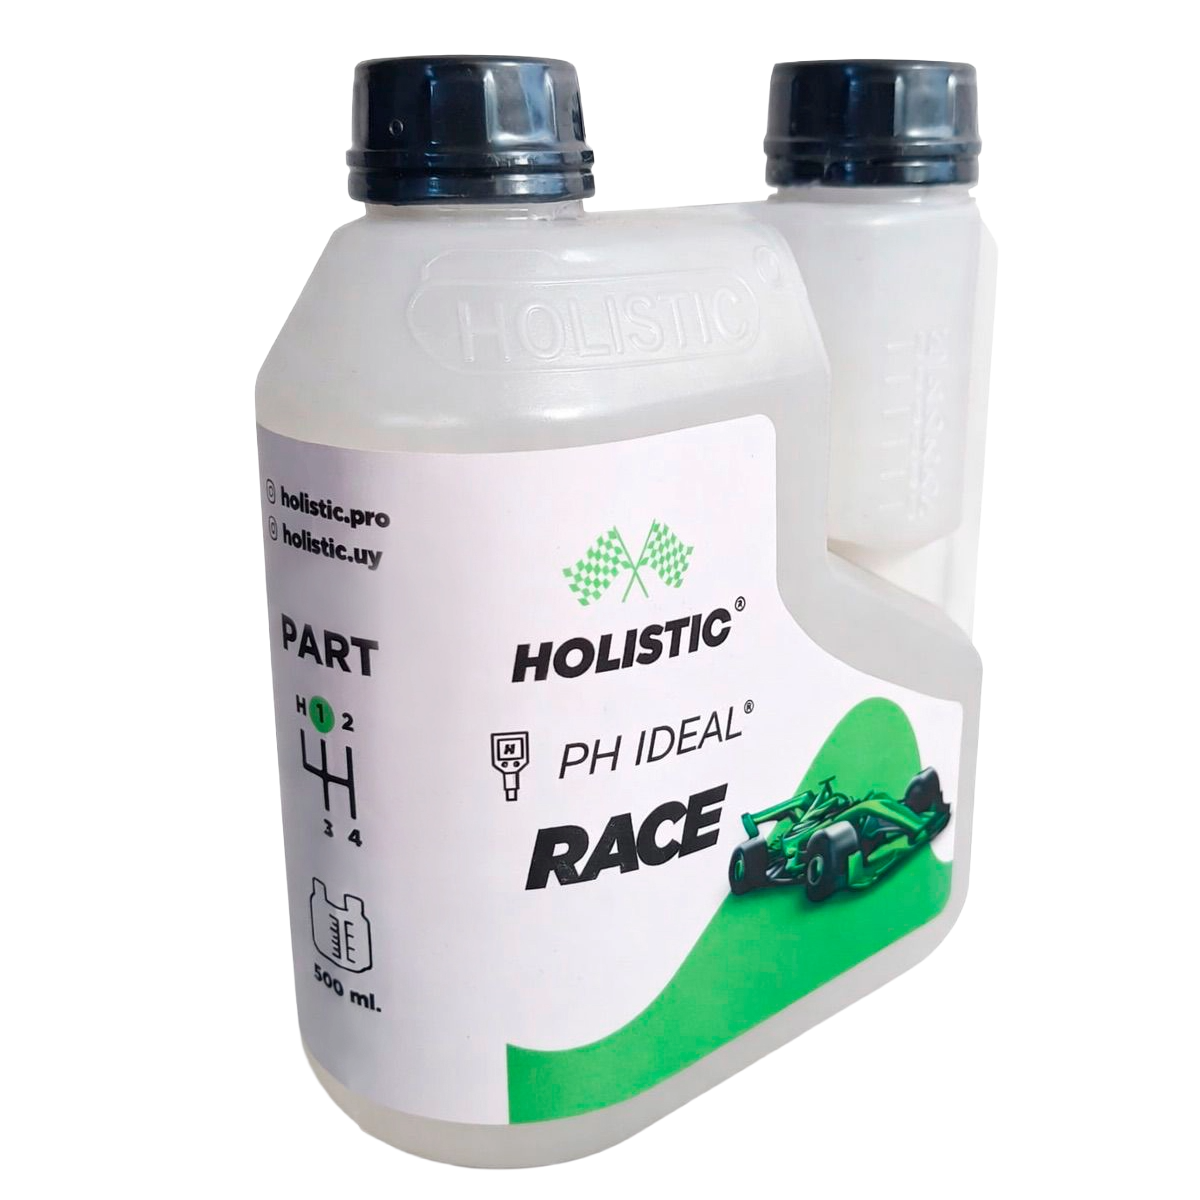
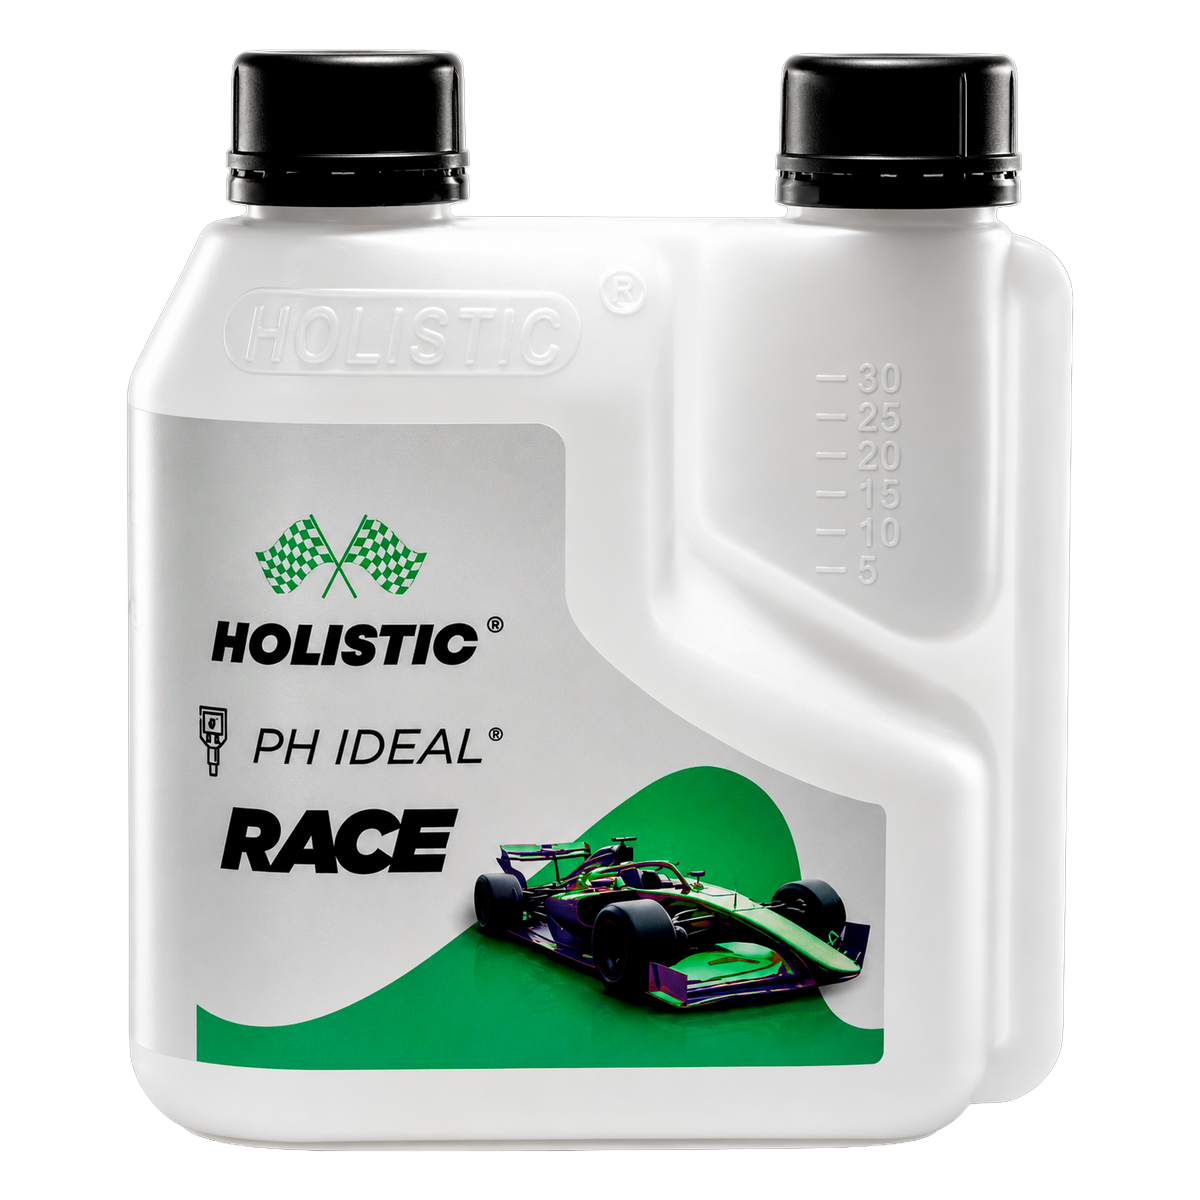
landing: re-esquema interna RACE — colores, copy y potes (4→5 fórmulas)
Colores por race re-mapeados a pedido del cliente (swap dentro de la paleta):
- Race 1 NPK → verde #3DA86E (igual)
- Race 2 Calcio+Nitrógeno → CELESTE #3FB5CB (era #8E24AA)
- Race 3 1ª y 2ª parte → VIOLETA #8E24AA (eran rosa/violeta mezclados)
- Race 4 Micro+Magnesio → ROSA #EC407A (era celeste #3FB5CB)

Potes: nuevos renders 500ml del zip RENDERS, normalizados a 1200x1200
(crop a bbox + alto 92% centrado) para encuadre consistente:
verde / celeste / violeta PART A / violeta PART B / rosa. Removidas las
imágenes viejas con colores que ya no aplican.

Copy:
- Race 1: explicación N/P/K (acortada).
- Race 2: paredes celulares, raíces/brotes, resistencia a plagas y sequías.
- Race 4: microelementos (Fe/Zn/B/Mn/Cu/Mo) + magnesio (clorofila).
- Race 3 (1ª/2ª) copy PK existente.

Estructura "4 → 5 fertilizantes": bigStat num 4→5, claim "Cuatro→Cinco
fórmulas", techSpecs, formats array splitea RACE 3 en 1ª/2ª (5 entries).
RaceFormatsShowcase: título "Cuatro→Cinco fórmulas" + leyenda de colores
(Race 1 verde · 2 celeste · 3 violeta 1y2 · 4 rosa). total deriva de
formats.length → HUD pasa a /05 solo.

Features: "pH neutro" → "pH ideal"; estabilidad "mezclables sin precipitar
en el orden indicado".

Build landing verde. PENDIENTE QA visual: posible solapamiento de textos
(tabs ahora son 5) — no pude renderizar el landing acá.

diff --git a/landing/src/data/productDetails.js b/landing/src/data/productDetails.js
@@ -211,7 +211,7 @@ export const productDetails = {
         hero: {
             kicker: "LÍNEA RACE",
             headline: "Sistema completo de fertilizantes\npara cultivo indoor y outdoor.",
-            claim: "Línea Race es el sistema de fertilizantes de Holistic para cultivadores que priorizan velocidad y rendimiento. Cuatro fórmulas para todo el ciclo indoor y outdoor: Race 1 (NPK que se usa durante todo el ciclo), Race 2 (Calcio + Nitrógeno), Race 3 (PK de crecimiento y maduración en dos partes) y Race 4 (Micro + Magnesio).",
+            claim: "Línea Race es el sistema de fertilizantes de Holistic para cultivadores que priorizan velocidad y rendimiento. Cinco fórmulas para todo el ciclo indoor y outdoor: Race 1 (NPK que se usa durante todo el ciclo), Race 2 (Calcio + Nitrógeno), Race 3 (PK de crecimiento y maduración en dos partes) y Race 4 (Micro + Magnesio).",
             color: "#2E8F6E",
             colorSoft: "#C7F0DD",
             // Hero CINEMATOGRÁFICO: video MP4 full-bleed como fondo. La
@@ -231,56 +231,56 @@ export const productDetails = {
         // muestra la botella real del SKU correspondiente al chapter.
         highlights: [
             {
-                kicker: "VEGETATIVO",
+                kicker: "TODO EL CICLO",
                 title: "Race 1 — NPK concentrado.",
-                body: "Concentrado de alta carga nitrogenada para arranque vigoroso. Hojas grandes, internudos cortos, masa vegetal sólida para entrar a floración con potencia máxima. Se utiliza durante todo el ciclo.",
+                body: "Nitrógeno: motor del crecimiento vegetativo — hojas, tallos y clorofila. Fósforo: raíces fuertes y transferencia de energía. Potasio: regula el metabolismo, fortalece tallos y sube la resistencia a plagas y estrés.",
                 image: "/img/productos/linea-race/500ml/race-1-verde-500ml.png",
                 color: "#3DA86E",
                 stat: "01",
             },
             {
-                kicker: "FLORACIÓN",
+                kicker: "ESTRUCTURA",
                 title: "Race 2 — Calcio + Nitrógeno.",
-                body: "Part A aporta calcio y magnesio, Part B entrega fósforo y potasio en la proporción exacta. La química correcta para flores densas y compactas.",
-                image: "/img/productos/linea-race/500ml/race-2-part-a-500ml.png",
-                color: "#8E24AA",
+                body: "Forma paredes celulares fuertes, impulsa el crecimiento de raíces y brotes, y mejora la resistencia ante plagas y sequías.",
+                image: "/img/productos/linea-race/500ml/race-2-celeste-500ml.png",
+                color: "#3FB5CB",
                 stat: "02",
             },
             {
                 kicker: "3A",
                 title: "Race 3 — 1ª parte PK.",
                 body: "Son 2 partes PK de crecimiento y maduración. Activan la translocación de azúcares y agrandan flores en el pico productivo del ciclo.",
-                image: "/img/productos/linea-race/500ml/race-3-rosa-500ml.png",
-                color: "#EC407A",
+                image: "/img/productos/linea-race/500ml/race-3-violeta-a-500ml.png",
+                color: "#8E24AA",
                 stat: "03",
             },
             {
                 kicker: "3B",
                 title: "Race 3 — 2ª parte PK.",
                 body: "Son 2 partes PK de crecimiento y maduración. Aplicadas en secuencia, sostienen el desarrollo de flores densas hasta el cierre del ciclo.",
-                image: "/img/productos/linea-race/500ml/race-2-part-b-500ml.png",
-                color: "#6B3BAF",
+                image: "/img/productos/linea-race/500ml/race-3-violeta-b-500ml.png",
+                color: "#8E24AA",
                 stat: "04",
             },
             {
-                kicker: "CICLO COMPLETO",
+                kicker: "MICRO + MAGNESIO",
                 title: "Race 4 — Micro + Magnesio.",
-                body: "Para los últimos días del ciclo. Compacta tejidos, potencia aromas y resinas, y prepara la planta para el cierre definitivo con Day-0.",
-                image: "/img/productos/linea-race/500ml/race-4-celeste-500ml.png",
-                color: "#3FB5CB",
+                body: "Microelementos (Fe, Zn, B, Mn, Cu, Mo) que activan enzimas, fotosíntesis y división celular. Magnesio: núcleo de la clorofila — energía y desarrollo de hojas, raíces y flores.",
+                image: "/img/productos/linea-race/500ml/race-4-rosa-500ml.png",
+                color: "#EC407A",
                 stat: "05",
             },
         ],
         bigStat: {
-            num: 4,
+            num: 5,
             suffix: " fertilizantes",
             label: "EL CICLO COMPLETO",
-            body: "Race 1 (NPK), Race 2 (Calcio + Nitrógeno, Part A + B), Race 3 (PK de crecimiento y maduración, 1ª y 2ª parte) y Race 4 (Micro + Magnesio). Cuatro fertilizantes para el ciclo completo, indoor y outdoor.",
+            body: "Race 1 (NPK), Race 2 (Calcio + Nitrógeno), Race 3 (PK de crecimiento y maduración, 1ª y 2ª parte) y Race 4 (Micro + Magnesio). Cinco fertilizantes para el ciclo completo, indoor y outdoor.",
         },
         features: [
             { title: "Concentración alta",     body: "1 ml/L típicamente. Menos plástico, más nutriente por riego.",                          emoji: "◆" },
-            { title: "pH neutro",              body: "Cada Race trabaja en el rango óptimo del cultivo sin shock de pH.",                     emoji: "⚖" },
-            { title: "Estabilidad en mezcla",  body: "Race 2A + 2B mezclables sin precipitar (en el orden indicado).",                        emoji: "✦" },
+            { title: "pH ideal",               body: "Cada Race trabaja en el rango óptimo del cultivo sin shock de pH.",                     emoji: "⚖" },
+            { title: "Estabilidad en mezcla",  body: "Fórmulas mezclables sin precipitar, en el orden indicado.",                             emoji: "✦" },
             { title: "Compatible con Elite",   body: "Race se puede usar con Elite como booster de floración.",                              emoji: "↯" },
             { title: "Velocidad real",         body: "Diseñado para cultivos donde el tiempo importa: indoor, ciclos cortos, autoflorecientes.",emoji: "⚡" },
             { title: "Soporte de uso",         body: "Tabla de dosificación clara. Variantes para indoor/outdoor incluidas.",                  emoji: "♥" },
@@ -294,39 +294,48 @@ export const productDetails = {
         formats: [
             {
                 name: "RACE 1",
-                size: "Vegetativo",
+                size: "Todo el ciclo",
                 image: "/img/productos/linea-race/500ml/race-1-verde-500ml.png",
                 color: "#3DA86E",
                 tagline: "NPK concentrado.",
                 description:
-                    "Alta carga nitrogenada para arranque vigoroso. Hojas grandes, internudos cortos, masa vegetal sólida para entrar a floración con potencia máxima. Se utiliza durante todo el ciclo.",
+                    "N, P y K en alta concentración: crecimiento vegetativo, raíces fuertes y metabolismo regulado. Se usa durante todo el ciclo.",
             },
             {
                 name: "RACE 2",
-                size: "Floración",
-                image: "/img/productos/linea-race/500ml/race-2-part-a-500ml.png",
-                color: "#8E24AA",
+                size: "Estructura",
+                image: "/img/productos/linea-race/500ml/race-2-celeste-500ml.png",
+                color: "#3FB5CB",
                 tagline: "Calcio + Nitrógeno.",
                 description:
-                    "Part A aporta calcio y magnesio, Part B entrega fósforo y potasio en la proporción exacta. La química correcta para flores densas y compactas.",
+                    "Paredes celulares fuertes, más raíces y brotes, y mayor resistencia ante plagas y sequías.",
             },
             {
-                name: "RACE 3",
+                name: "RACE 3 · 1ª",
                 size: "Crecimiento y Maduración",
-                image: "/img/productos/linea-race/500ml/race-3-rosa-500ml.png",
-                color: "#EC407A",
-                tagline: "PK en dos partes.",
+                image: "/img/productos/linea-race/500ml/race-3-violeta-a-500ml.png",
+                color: "#8E24AA",
+                tagline: "PK · parte 1.",
                 description:
-                    "Son 2 partes PK de crecimiento y maduración. Aplicadas en secuencia (3A → 3B), activan la translocación de azúcares y sostienen el desarrollo de flores densas en el pico productivo.",
+                    "Primera de las 2 partes PK. Activa la translocación de azúcares y agranda flores en el pico productivo.",
+            },
+            {
+                name: "RACE 3 · 2ª",
+                size: "Crecimiento y Maduración",
+                image: "/img/productos/linea-race/500ml/race-3-violeta-b-500ml.png",
+                color: "#8E24AA",
+                tagline: "PK · parte 2.",
+                description:
+                    "Segunda parte PK. Aplicada en secuencia (1ª → 2ª), sostiene flores densas hasta el cierre del ciclo.",
             },
             {
                 name: "RACE 4",
                 size: "Micro + Magnesio",
-                image: "/img/productos/linea-race/500ml/race-4-celeste-500ml.png",
-                color: "#3FB5CB",
+                image: "/img/productos/linea-race/500ml/race-4-rosa-500ml.png",
+                color: "#EC407A",
                 tagline: "Micro + Magnesio.",
                 description:
-                    "Para los últimos días del ciclo. Compacta tejidos, potencia aromas y resinas, y prepara la planta para el cierre definitivo con Day-0.",
+                    "Microelementos (Fe, Zn, B, Mn, Cu, Mo) y magnesio: activan enzimas, fotosíntesis y división celular.",
             },
         ],
         system: {
@@ -336,13 +345,13 @@ export const productDetails = {
         },
         pullquote: "La velocidad sin control es ruido. Race es el fertilizante indoor que te da las dos cosas: velocidad y precisión.",
         techSpecs: [
-            { label: "Composición",     value: "Race 1 NPK · 2A Ca-Mg · 2B PK · 3A/3B PK crecimiento y maduración · 4 Micro + Magnesio" },
+            { label: "Composición",     value: "Race 1 NPK · Race 2 Ca + N · Race 3 PK (1ª y 2ª parte) · Race 4 Micro + Magnesio" },
             { label: "Forma",            value: "Líquido concentrado" },
             { label: "Dosis típica",     value: "1.0 – 1.5 ml/L" },
             { label: "Compatibilidad",   value: "Sustratos inertes, coco, hidro, tierra premium · Indoor y outdoor" },
             { label: "Conservación",     value: "Bajo techo, 5–25°C, 24 meses" },
             { label: "Presentaciones",   value: "250 ml · 500 ml" },
-            { label: "Variantes",        value: "4 fertilizantes para el ciclo completo" },
+            { label: "Variantes",        value: "5 fertilizantes para el ciclo completo" },
         ],
     },
 
